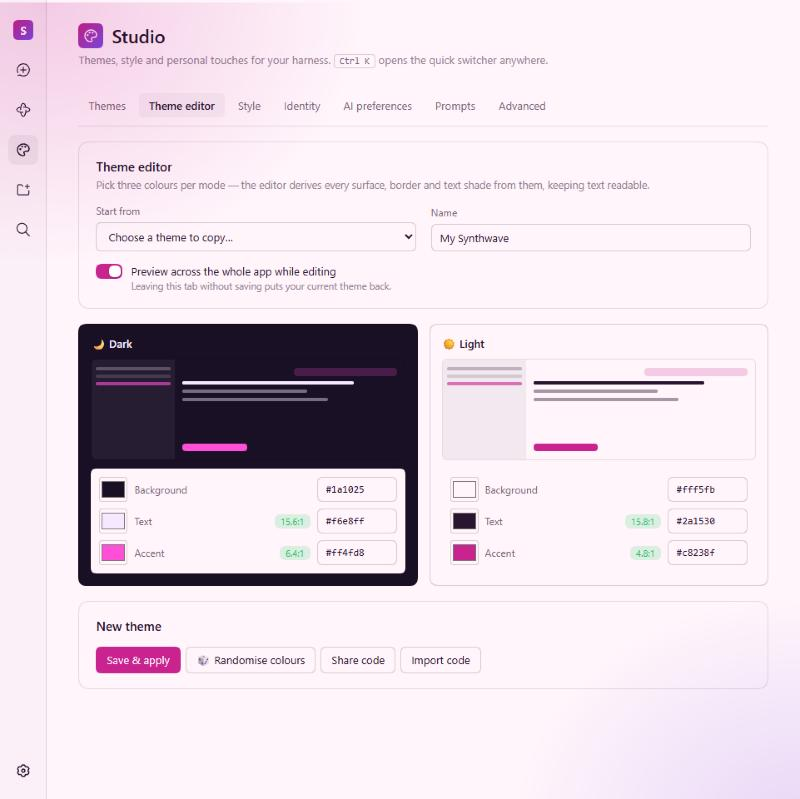
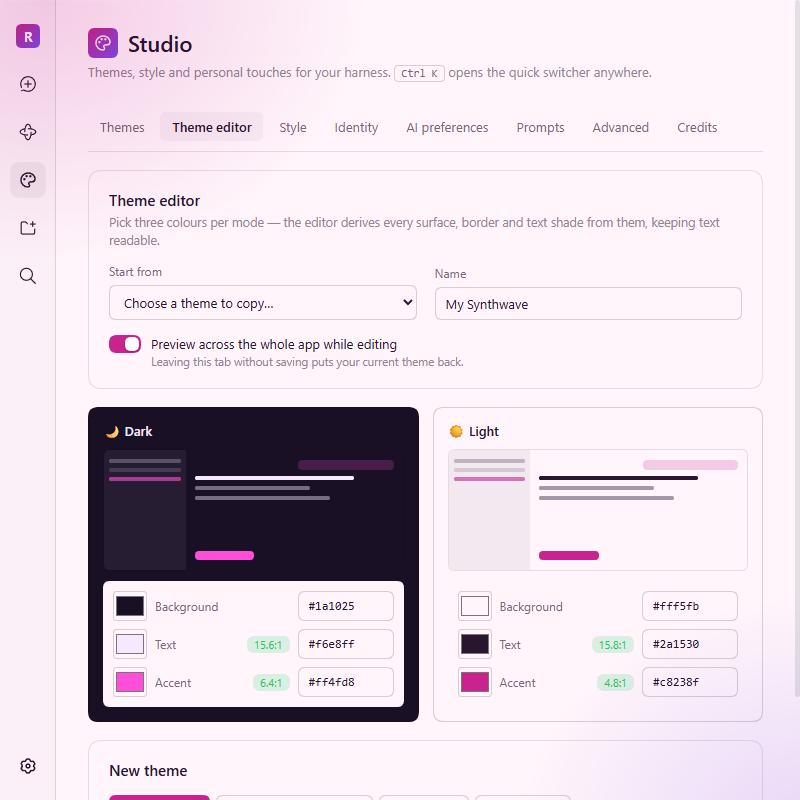
Studio 1.2.0: Credits page and refreshed screenshots
- New Credits tab: who made Studio, what it builds on, and where each
  adapted theme palette comes from, with links. Version comes from
  package.json at build time.
- CREDITS.md for GitHub; README links to it.
- New screenshots showing Liquid Glass, light mode, saved prompts and
  the Credits page.
- The selected option in segmented controls now stays visible on
  liquid-glass panels.

diff --git a/src/client.js b/src/client.js
@@ -47,7 +47,7 @@ textarea.st_input{resize:vertical;min-height:96px;line-height:1.5}
 .st_btn_small{padding:3px 8px;font-size:12px}
 .st_seg{display:inline-flex;flex-wrap:wrap;gap:2px;padding:2px;border-radius:var(--dsw-radius-sm);background:var(--dsw-alias-bg-module-platform)}
 .st_segBtn{border:0;background:none;font:inherit;font-size:12.5px;color:var(--dsw-alias-label-secondary);padding:5px 11px;border-radius:calc(var(--dsw-radius-sm) - 2px);cursor:pointer}
-.st_segBtn[aria-pressed=true]{background:var(--dsw-alias-bg-layer-1);color:var(--dsw-alias-label-primary);box-shadow:0 1px 2px rgba(0,0,0,.12)}
+.st_segBtn[aria-pressed=true]{background:var(--dsw-alias-bg-layer-1) linear-gradient(var(--dsw-alias-interactive-bg-active),var(--dsw-alias-interactive-bg-active));color:var(--dsw-alias-label-primary);box-shadow:0 1px 2px rgba(0,0,0,.12),inset 0 0 0 .5px var(--dsw-alias-border-l4)}
 .st_toggle{display:flex;align-items:flex-start;gap:10px;cursor:pointer;font-size:13px;line-height:20px}
 .st_switch{flex:none;position:relative;width:32px;height:18px;margin-top:1px;border-radius:999px;background:var(--dsw-alias-bg-overlay);transition:background .15s}
 .st_switch::after{content:"";position:absolute;top:2px;left:2px;width:14px;height:14px;border-radius:50%;background:var(--dsw-alias-switch-thumb,#fff);transition:transform .15s;box-shadow:0 1px 2px rgba(0,0,0,.25)}
@@ -97,6 +97,20 @@ textarea.st_input{resize:vertical;min-height:96px;line-height:1.5}
 .st_markEmoji{display:inline-flex;align-items:center;justify-content:center;line-height:1}
 .st_markMono{display:inline-flex;align-items:center;justify-content:center;border-radius:28%;font-weight:700;letter-spacing:-.02em;color:#fff;background:linear-gradient(135deg,var(--dsw-alias-state-business-primary),var(--studio-accent-2,#c46be0));text-transform:uppercase}
 .st_markImg{border-radius:24%;object-fit:cover}
+.st_creditHero{display:flex;align-items:center;gap:18px;flex-wrap:wrap;padding:22px 24px;border-radius:var(--dsw-radius-lg);border:.5px solid color-mix(in srgb,var(--dsw-alias-state-business-primary) 40%,transparent);background:linear-gradient(120deg,color-mix(in srgb,var(--dsw-alias-state-business-primary) 16%,transparent),color-mix(in srgb,var(--studio-accent-2,#5ad8e0) 12%,transparent))}
+.st_creditMark{display:inline-flex;align-items:center;justify-content:center;width:60px;height:60px;border-radius:28%;color:#fff;background:linear-gradient(135deg,var(--dsw-alias-state-business-primary),var(--studio-accent-2,#5ad8e0));box-shadow:inset 0 1px 0 rgba(255,255,255,.35),0 6px 18px rgba(0,0,0,.25)}
+.st_creditText{flex:1;min-width:200px;display:flex;flex-direction:column;gap:3px}
+.st_creditTitle{font-size:22px;font-weight:600;line-height:28px}
+.st_creditVersion{font-size:12px;font-weight:500;font-family:var(--ds-font-family-code);color:var(--dsw-alias-label-tertiary);vertical-align:middle}
+.st_creditBy{font-size:15px;color:var(--dsw-alias-label-secondary)}
+.st_creditBy strong{color:var(--dsw-alias-label-primary);font-weight:600}
+.st_creditRow{display:flex;align-items:center;gap:12px;padding:9px 0;border-bottom:.5px solid var(--dsw-alias-border-l2)}
+.st_creditRow:last-child{border-bottom:0}
+.st_creditName{font-size:13px;font-weight:500;min-width:110px}
+.st_creditLine{margin:0;font-size:13px;line-height:20px;color:var(--dsw-alias-label-secondary)}
+.st_link{color:var(--dsw-alias-link,var(--dsw-alias-state-business-primary));text-decoration:none;font-size:13px;white-space:nowrap}
+.st_link:hover{text-decoration:underline}
+a.st_btn{text-decoration:none}
 .st_markThumb{position:relative;width:56px;height:56px;flex:none}
 .st_markThumb img{width:56px;height:56px;border-radius:24%;object-fit:cover;border:.5px solid var(--dsw-alias-border-l4);display:block}
 .st_markRemove{position:absolute;top:-8px;right:-8px;width:22px;height:22px;padding:0;border-radius:50%;corner-shape:round;display:inline-flex;align-items:center;justify-content:center;font:inherit;font-size:15px;line-height:1;color:var(--dsw-alias-label-primary);background:var(--dsw-alias-bg-layer-3);border:.5px solid var(--dsw-alias-border-l4);box-shadow:0 2px 6px rgba(0,0,0,.3);cursor:pointer}
@@ -1083,6 +1097,55 @@ function AdvancedTab() {
 	];
 }
 
+const STUDIO_VERSION = "__STUDIO_VERSION__"; // filled in from package.json by scripts/build.mjs
+const REPO_URL = "https://github.com/IRdotAI/dsh-studio";
+
+/** The open-source colour schemes some presets are adapted from. */
+const PALETTE_CREDITS = [
+	{ name: "Dracula", by: "Zeno Rocha and contributors", url: "https://draculatheme.com" },
+	{ name: "Nord", by: "Sven Greb (Arctic Ice Studio)", url: "https://www.nordtheme.com" },
+	{ name: "Catppuccin", by: "the Catppuccin community", url: "https://catppuccin.com" },
+	{ name: "Gruvbox", by: "Pavel Pertsev (morhetz)", url: "https://github.com/morhetz/gruvbox" },
+	{ name: "Solarized", by: "Ethan Schoonover", url: "https://ethanschoonover.com/solarized/" },
+	{ name: "Tokyo Night", by: "enkia", url: "https://github.com/enkia/tokyo-night-vscode-theme" },
+	{ name: "Rosé Pine", by: "the Rosé Pine team", url: "https://rosepinetheme.com" },
+];
+
+function ExternalLink({ href, children }) {
+	return h("a", { className: "st_link", href, target: "_blank", rel: "noopener noreferrer" }, children);
+}
+
+function CreditsTab() {
+	const adapted = new Set(PALETTE_CREDITS.map((c) => c.name));
+	const originals = PRESETS.filter((p) => !adapted.has(p.name)).map((p) => `${p.emoji} ${p.name}`);
+	return [
+		h("div", { key: "hero", className: "st_creditHero" },
+			h("span", { className: "st_creditMark", "aria-hidden": true }, h(PaletteIcon, { size: 30 })),
+			h("div", { className: "st_creditText" },
+				h("div", { className: "st_creditTitle" }, "Studio ", h("span", { className: "st_creditVersion" }, "v" + STUDIO_VERSION)),
+				h("div", { className: "st_creditBy" }, "Made by ", h("strong", null, "RdotA")),
+				h("div", { className: "st_hint" }, "Themes and personal touches for DeepSeek Harness.")),
+			h("div", { className: "st_actions" },
+				h("a", { className: "st_btn st_btn_primary", href: REPO_URL, target: "_blank", rel: "noopener noreferrer" }, "View on GitHub"),
+				h("a", { className: "st_btn", href: REPO_URL + "/issues", target: "_blank", rel: "noopener noreferrer" }, "Report a problem"))),
+		h(Section, { key: "built", title: "Built on" },
+			h("p", { className: "st_creditLine" },
+				h(ExternalLink, { href: "https://github.com/deepseek-ai/deepseek-harness" }, "DeepSeek Harness"),
+				" by DeepSeek, released under the MIT licence. Studio plugs into its theme, slot and plugin systems; the whale logo restored by ",
+				h("em", null, "Original"), " is DeepSeek's own mark.")),
+		h(Section, { key: "palettes", title: "Theme palettes", description: "These presets are adapted from open-source colour schemes. Some light-mode accents are darkened so text stays readable." },
+			h("div", null, PALETTE_CREDITS.map((c) => h("div", { key: c.name, className: "st_creditRow" },
+				h("span", { className: "st_creditName" }, c.name),
+				h("span", { className: "st_hint", style: { flex: 1 } }, "by " + c.by),
+				h(ExternalLink, { href: c.url }, "Website ↗")))),
+			h("p", { className: "st_creditLine" }, "Original themes by RdotA: ", originals.join(" · "), ".")),
+		h(Section, { key: "licence", title: "Licence" },
+			h("p", { className: "st_creditLine" },
+				"Studio is free and open-source software under the MIT licence. Copyright © 2026 RdotA. ",
+				h(ExternalLink, { href: REPO_URL + "/blob/main/LICENSE" }, "Read the licence ↗"))),
+	];
+}
+
 const TABS = [
 	{ id: "themes", label: "Themes", component: ThemesTab },
 	{ id: "editor", label: "Theme editor", component: EditorTab },
@@ -1091,6 +1154,7 @@ const TABS = [
 	{ id: "persona", label: "AI preferences", component: PersonaTab },
 	{ id: "prompts", label: "Prompts", component: PromptsTab },
 	{ id: "advanced", label: "Advanced", component: AdvancedTab },
+	{ id: "credits", label: "Credits", component: CreditsTab },
 ];
 
 function StudioPage() {

diff --git a/lib/client.js b/lib/client.js
@@ -894,7 +894,7 @@ textarea.st_input{resize:vertical;min-height:96px;line-height:1.5}
 .st_btn_small{padding:3px 8px;font-size:12px}
 .st_seg{display:inline-flex;flex-wrap:wrap;gap:2px;padding:2px;border-radius:var(--dsw-radius-sm);background:var(--dsw-alias-bg-module-platform)}
 .st_segBtn{border:0;background:none;font:inherit;font-size:12.5px;color:var(--dsw-alias-label-secondary);padding:5px 11px;border-radius:calc(var(--dsw-radius-sm) - 2px);cursor:pointer}
-.st_segBtn[aria-pressed=true]{background:var(--dsw-alias-bg-layer-1);color:var(--dsw-alias-label-primary);box-shadow:0 1px 2px rgba(0,0,0,.12)}
+.st_segBtn[aria-pressed=true]{background:var(--dsw-alias-bg-layer-1) linear-gradient(var(--dsw-alias-interactive-bg-active),var(--dsw-alias-interactive-bg-active));color:var(--dsw-alias-label-primary);box-shadow:0 1px 2px rgba(0,0,0,.12),inset 0 0 0 .5px var(--dsw-alias-border-l4)}
 .st_toggle{display:flex;align-items:flex-start;gap:10px;cursor:pointer;font-size:13px;line-height:20px}
 .st_switch{flex:none;position:relative;width:32px;height:18px;margin-top:1px;border-radius:999px;background:var(--dsw-alias-bg-overlay);transition:background .15s}
 .st_switch::after{content:"";position:absolute;top:2px;left:2px;width:14px;height:14px;border-radius:50%;background:var(--dsw-alias-switch-thumb,#fff);transition:transform .15s;box-shadow:0 1px 2px rgba(0,0,0,.25)}
@@ -944,6 +944,20 @@ textarea.st_input{resize:vertical;min-height:96px;line-height:1.5}
 .st_markEmoji{display:inline-flex;align-items:center;justify-content:center;line-height:1}
 .st_markMono{display:inline-flex;align-items:center;justify-content:center;border-radius:28%;font-weight:700;letter-spacing:-.02em;color:#fff;background:linear-gradient(135deg,var(--dsw-alias-state-business-primary),var(--studio-accent-2,#c46be0));text-transform:uppercase}
 .st_markImg{border-radius:24%;object-fit:cover}
+.st_creditHero{display:flex;align-items:center;gap:18px;flex-wrap:wrap;padding:22px 24px;border-radius:var(--dsw-radius-lg);border:.5px solid color-mix(in srgb,var(--dsw-alias-state-business-primary) 40%,transparent);background:linear-gradient(120deg,color-mix(in srgb,var(--dsw-alias-state-business-primary) 16%,transparent),color-mix(in srgb,var(--studio-accent-2,#5ad8e0) 12%,transparent))}
+.st_creditMark{display:inline-flex;align-items:center;justify-content:center;width:60px;height:60px;border-radius:28%;color:#fff;background:linear-gradient(135deg,var(--dsw-alias-state-business-primary),var(--studio-accent-2,#5ad8e0));box-shadow:inset 0 1px 0 rgba(255,255,255,.35),0 6px 18px rgba(0,0,0,.25)}
+.st_creditText{flex:1;min-width:200px;display:flex;flex-direction:column;gap:3px}
+.st_creditTitle{font-size:22px;font-weight:600;line-height:28px}
+.st_creditVersion{font-size:12px;font-weight:500;font-family:var(--ds-font-family-code);color:var(--dsw-alias-label-tertiary);vertical-align:middle}
+.st_creditBy{font-size:15px;color:var(--dsw-alias-label-secondary)}
+.st_creditBy strong{color:var(--dsw-alias-label-primary);font-weight:600}
+.st_creditRow{display:flex;align-items:center;gap:12px;padding:9px 0;border-bottom:.5px solid var(--dsw-alias-border-l2)}
+.st_creditRow:last-child{border-bottom:0}
+.st_creditName{font-size:13px;font-weight:500;min-width:110px}
+.st_creditLine{margin:0;font-size:13px;line-height:20px;color:var(--dsw-alias-label-secondary)}
+.st_link{color:var(--dsw-alias-link,var(--dsw-alias-state-business-primary));text-decoration:none;font-size:13px;white-space:nowrap}
+.st_link:hover{text-decoration:underline}
+a.st_btn{text-decoration:none}
 .st_markThumb{position:relative;width:56px;height:56px;flex:none}
 .st_markThumb img{width:56px;height:56px;border-radius:24%;object-fit:cover;border:.5px solid var(--dsw-alias-border-l4);display:block}
 .st_markRemove{position:absolute;top:-8px;right:-8px;width:22px;height:22px;padding:0;border-radius:50%;corner-shape:round;display:inline-flex;align-items:center;justify-content:center;font:inherit;font-size:15px;line-height:1;color:var(--dsw-alias-label-primary);background:var(--dsw-alias-bg-layer-3);border:.5px solid var(--dsw-alias-border-l4);box-shadow:0 2px 6px rgba(0,0,0,.3);cursor:pointer}
@@ -1930,6 +1944,55 @@ function AdvancedTab() {
 	];
 }
 
+const STUDIO_VERSION = "1.2.0"; // filled in from package.json by scripts/build.mjs
+const REPO_URL = "https://github.com/IRdotAI/dsh-studio";
+
+/** The open-source colour schemes some presets are adapted from. */
+const PALETTE_CREDITS = [
+	{ name: "Dracula", by: "Zeno Rocha and contributors", url: "https://draculatheme.com" },
+	{ name: "Nord", by: "Sven Greb (Arctic Ice Studio)", url: "https://www.nordtheme.com" },
+	{ name: "Catppuccin", by: "the Catppuccin community", url: "https://catppuccin.com" },
+	{ name: "Gruvbox", by: "Pavel Pertsev (morhetz)", url: "https://github.com/morhetz/gruvbox" },
+	{ name: "Solarized", by: "Ethan Schoonover", url: "https://ethanschoonover.com/solarized/" },
+	{ name: "Tokyo Night", by: "enkia", url: "https://github.com/enkia/tokyo-night-vscode-theme" },
+	{ name: "Rosé Pine", by: "the Rosé Pine team", url: "https://rosepinetheme.com" },
+];
+
+function ExternalLink({ href, children }) {
+	return h("a", { className: "st_link", href, target: "_blank", rel: "noopener noreferrer" }, children);
+}
+
+function CreditsTab() {
+	const adapted = new Set(PALETTE_CREDITS.map((c) => c.name));
+	const originals = PRESETS.filter((p) => !adapted.has(p.name)).map((p) => `${p.emoji} ${p.name}`);
+	return [
+		h("div", { key: "hero", className: "st_creditHero" },
+			h("span", { className: "st_creditMark", "aria-hidden": true }, h(PaletteIcon, { size: 30 })),
+			h("div", { className: "st_creditText" },
+				h("div", { className: "st_creditTitle" }, "Studio ", h("span", { className: "st_creditVersion" }, "v" + STUDIO_VERSION)),
+				h("div", { className: "st_creditBy" }, "Made by ", h("strong", null, "RdotA")),
+				h("div", { className: "st_hint" }, "Themes and personal touches for DeepSeek Harness.")),
+			h("div", { className: "st_actions" },
+				h("a", { className: "st_btn st_btn_primary", href: REPO_URL, target: "_blank", rel: "noopener noreferrer" }, "View on GitHub"),
+				h("a", { className: "st_btn", href: REPO_URL + "/issues", target: "_blank", rel: "noopener noreferrer" }, "Report a problem"))),
+		h(Section, { key: "built", title: "Built on" },
+			h("p", { className: "st_creditLine" },
+				h(ExternalLink, { href: "https://github.com/deepseek-ai/deepseek-harness" }, "DeepSeek Harness"),
+				" by DeepSeek, released under the MIT licence. Studio plugs into its theme, slot and plugin systems; the whale logo restored by ",
+				h("em", null, "Original"), " is DeepSeek's own mark.")),
+		h(Section, { key: "palettes", title: "Theme palettes", description: "These presets are adapted from open-source colour schemes. Some light-mode accents are darkened so text stays readable." },
+			h("div", null, PALETTE_CREDITS.map((c) => h("div", { key: c.name, className: "st_creditRow" },
+				h("span", { className: "st_creditName" }, c.name),
+				h("span", { className: "st_hint", style: { flex: 1 } }, "by " + c.by),
+				h(ExternalLink, { href: c.url }, "Website ↗")))),
+			h("p", { className: "st_creditLine" }, "Original themes by RdotA: ", originals.join(" · "), ".")),
+		h(Section, { key: "licence", title: "Licence" },
+			h("p", { className: "st_creditLine" },
+				"Studio is free and open-source software under the MIT licence. Copyright © 2026 RdotA. ",
+				h(ExternalLink, { href: REPO_URL + "/blob/main/LICENSE" }, "Read the licence ↗"))),
+	];
+}
+
 const TABS = [
 	{ id: "themes", label: "Themes", component: ThemesTab },
 	{ id: "editor", label: "Theme editor", component: EditorTab },
@@ -1938,6 +2001,7 @@ const TABS = [
 	{ id: "persona", label: "AI preferences", component: PersonaTab },
 	{ id: "prompts", label: "Prompts", component: PromptsTab },
 	{ id: "advanced", label: "Advanced", component: AdvancedTab },
+	{ id: "credits", label: "Credits", component: CreditsTab },
 ];
 
 function StudioPage() {

diff --git a/README.md b/README.md
@@ -4,11 +4,15 @@ Themes and personalisation for [DeepSeek Harness](https://github.com/deepseek-ai
 
 Zero npm dependencies. Everything stays on your machine.
 
-![Studio themes page](docs/screenshots/themes-dark.jpg)
+![Studio with the Liquid Glass theme and frosted-glass panels](docs/screenshots/themes-dark.jpg)
 
-| Quick switcher (live preview) | Theme editor | Personal greeting |
+| Liquid glass + personal greeting | Quick switcher (live preview) | Theme editor |
 | --- | --- | --- |
-| ![Ctrl+K quick switcher previewing Tokyo Night](docs/screenshots/quick-switcher.jpg) | ![Theme editor](docs/screenshots/theme-editor.jpg) | ![Greeting and monogram logo](docs/screenshots/greeting.jpg) |
+| ![Frosted-glass composer over a wallpaper, greeting "Good night, RdotA"](docs/screenshots/greeting.jpg) | ![Ctrl+K quick switcher previewing Tokyo Night](docs/screenshots/quick-switcher.jpg) | ![Theme editor](docs/screenshots/theme-editor.jpg) |
+
+| Saved prompts | Light mode (Synthwave) | Credits |
+| --- | --- | --- |
+| ![Saved prompts menu beside the composer](docs/screenshots/saved-prompts.jpg) | ![Studio themes page in light mode](docs/screenshots/themes-light.jpg) | ![Credits page](docs/screenshots/credits.jpg) |
 
 ## Install
 
@@ -48,6 +52,7 @@ To update, run the same `add` command again. To remove it, use **Uninstall** on 
 | **AI preferences** | Optional custom instructions: your name, about you, a response style (Concise, Thorough, Friendly, Mentor, Butler, Hype), reply language and free-form instructions. **Off by default**; the tab shows exactly what the model will receive. |
 | **Saved prompts** | Six starters; add, edit and reorder your own. They're inserted at your cursor. |
 | **Advanced** | Custom CSS (applied last; use the `--dsw-*` design tokens), export/import settings as JSON, reset. |
+| **Credits** | Who made Studio, what it builds on, and where each adapted theme palette comes from. |
 
 ## Privacy
 
@@ -100,10 +105,7 @@ Restart `dsh web` after changing `lib/index.js` (host modules are cached).
 
 ## Credits
 
-- Theme palettes are based on these open-source colour schemes, adapted with some light-mode accents darkened for contrast: [Dracula](https://draculatheme.com), [Nord](https://www.nordtheme.com), [Catppuccin](https://catppuccin.com), [Gruvbox](https://github.com/morhetz/gruvbox), [Solarized](https://ethanschoonover.com/solarized/), [Tokyo Night](https://github.com/folke/tokyonight.nvim) and [Rosé Pine](https://rosepinetheme.com). All other themes are original.
-- The DeepSeek whale shown when you restore the original logo is DeepSeek Harness's own mark; DSH is MIT-licensed by DeepSeek.
-
-Made by **RdotA**.
+Made by **RdotA**. Theme palettes adapted from Dracula, Nord, Catppuccin, Gruvbox, Solarized, Tokyo Night and Rosé Pine. Full credits, with links, are in [CREDITS.md](CREDITS.md) and in the app under **Studio → Credits**.
 
 ## Licence
 

diff --git a/CREDITS.md b/CREDITS.md
@@ -1,0 +1,29 @@
+# Credits
+
+**Studio for DeepSeek Harness** is made by **RdotA**.
+
+The same credits are in the app: **Studio → Credits**.
+
+## Built on
+
+[DeepSeek Harness](https://github.com/deepseek-ai/deepseek-harness) by DeepSeek, released under the MIT licence. Studio plugs into its theme, slot and plugin systems. The whale logo that **Identity → Original** restores is DeepSeek's own mark.
+
+## Theme palettes
+
+These presets are adapted from open-source colour schemes. Some light-mode accents are darkened so text stays readable.
+
+| Theme | Original scheme by | Link |
+| --- | --- | --- |
+| Dracula | Zeno Rocha and contributors | [draculatheme.com](https://draculatheme.com) |
+| Nord | Sven Greb (Arctic Ice Studio) | [nordtheme.com](https://www.nordtheme.com) |
+| Catppuccin | the Catppuccin community | [catppuccin.com](https://catppuccin.com) |
+| Gruvbox | Pavel Pertsev (morhetz) | [github.com/morhetz/gruvbox](https://github.com/morhetz/gruvbox) |
+| Solarized | Ethan Schoonover | [ethanschoonover.com/solarized](https://ethanschoonover.com/solarized/) |
+| Tokyo Night | enkia | [github.com/enkia/tokyo-night-vscode-theme](https://github.com/enkia/tokyo-night-vscode-theme) |
+| Rosé Pine | the Rosé Pine team | [rosepinetheme.com](https://rosepinetheme.com) |
+
+Original themes by RdotA: Liquid Glass, Midnight, Forest, Ocean, Synthwave, Sakura, Arc Reactor, Espresso, Paper and AMOLED.
+
+## Licence
+
+Studio is free and open-source software under the [MIT licence](LICENSE). Copyright © 2026 RdotA.
